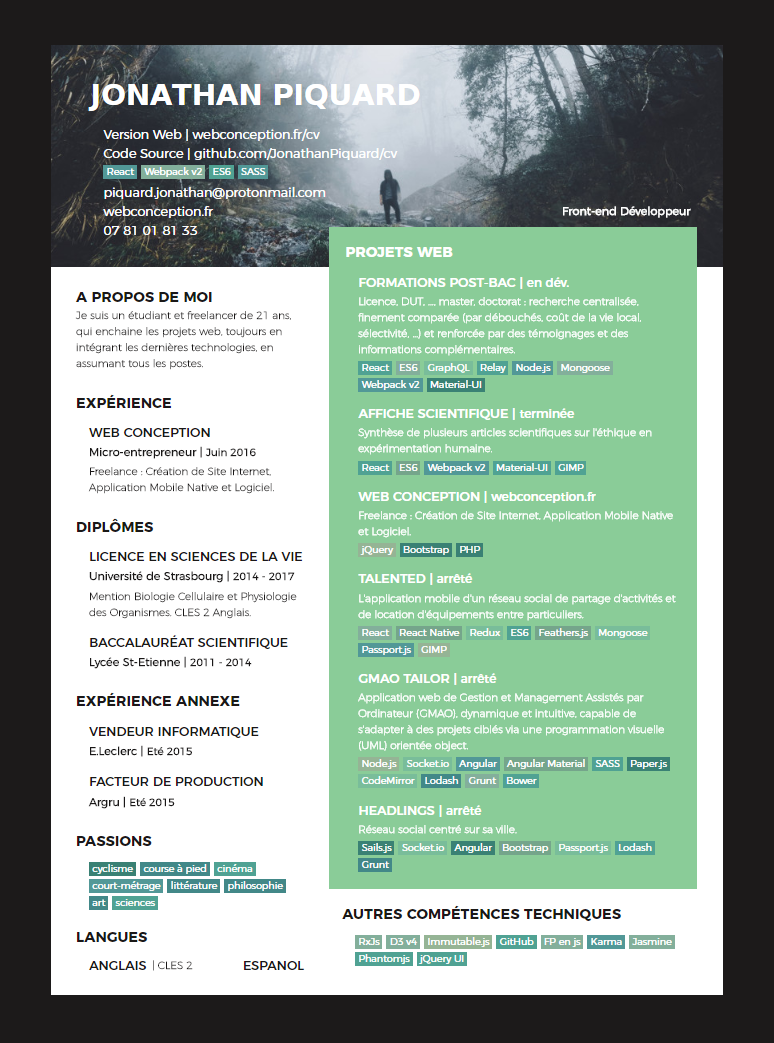
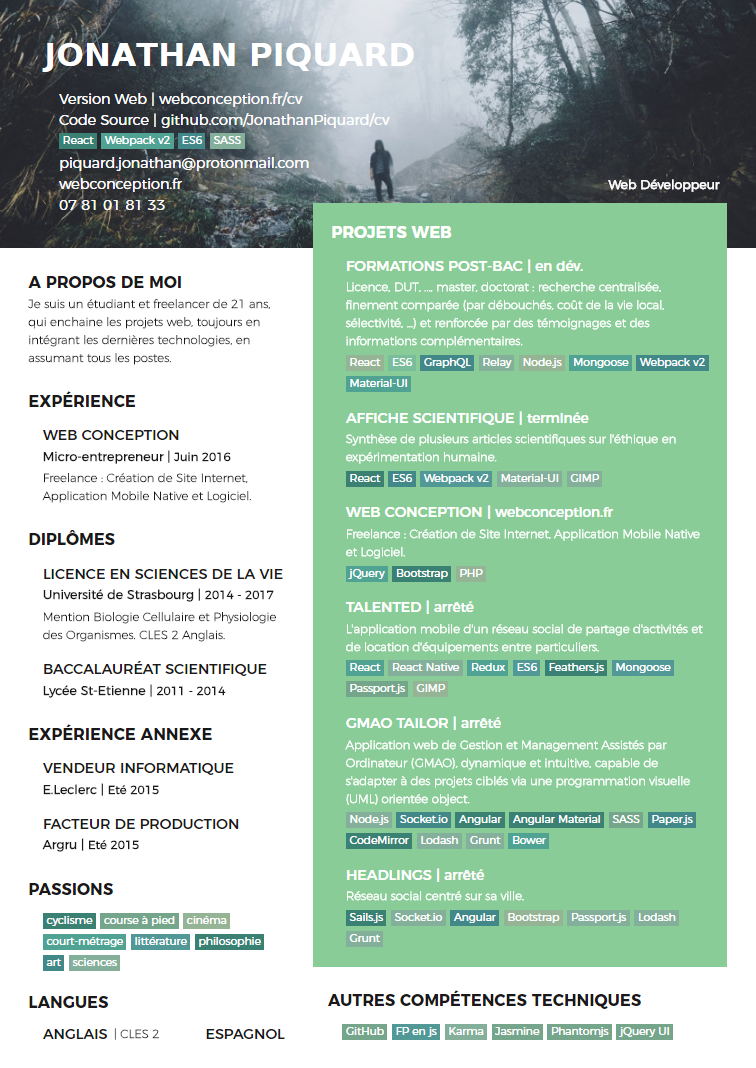
simplification

diff --git a/src/pages/CV/subparts/RightSection/index.js b/src/pages/CV/subparts/RightSection/index.js
@@ -56,7 +56,7 @@ class RightSection extends Component {
         <div id='otherSkills' className='category'>
           <h3 className='category-title'>Autres Compétences Techniques</h3>
           <div className='category-items'>
-            <BadgeList details={technologiesDetails} badges={['RxJs', 'D3 v4', 'Immutable.js', 'GitHub', 'FP en js', 'Karma', 'Jasmine', 'Phantomjs', 'jQuery UI']} />
+            <BadgeList details={technologiesDetails} badges={[/*'RxJs', 'D3 v4', 'Immutable.js',*/ 'GitHub', 'FP en js', 'Karma', 'Jasmine', 'Phantomjs', 'jQuery UI']} />
           </div>
         </div>
       </section>

diff --git a/src/pages/CV/subparts/LeftSection/index.js b/src/pages/CV/subparts/LeftSection/index.js
@@ -70,7 +70,7 @@ class LeftSection extends Component {
               <p className='category-item-description'>| CLES 2</p>
             </div>
             <div className='category-item'>
-              <h4 className='category-item-title'>Espanol</h4>
+              <h4 className='category-item-title'>Espagnol</h4>
             </div>
           </div>
         </div>

diff --git a/dist/index.html b/dist/index.html
@@ -5,7 +5,7 @@
   <meta charset="utf-8">
   <meta http-equiv="X-UA-Compatible" content="IE=edge">
   <title>CV | Jonathan Piquard</title>
-  <meta name="description" content="Front-end Développeur">
+  <meta name="description" content="Web Développeur">
 
   <meta
     name="viewport"

diff --git a/src/pages/CV/styles.scss b/src/pages/CV/styles.scss
@@ -104,6 +104,7 @@
 @media (min-width: 1017px) { /* 840px (page width) + 17px (scrollbar vertical width) + 2 * 80px (margins) */
     #container {
         margin: 80px auto;
+        height: 1188px;
     }
 }
 

diff --git a/src/pages/CV/subparts/Header/index.js b/src/pages/CV/subparts/Header/index.js
@@ -41,7 +41,7 @@ class Header extends Component {
 
           </div>
 
-          <h2>Front-end Développeur</h2>
+          <h2>Web Développeur</h2>
 
         </div>
       </header>

diff --git a/src/pages/CV/subparts/RightSection/styles.scss b/src/pages/CV/subparts/RightSection/styles.scss
@@ -35,6 +35,7 @@
         }
 
         > #otherSkills {
+            margin-top: 5px;
             padding: 21px 16px;
         }
     }

diff --git a/README.md b/README.md
@@ -1,7 +1,7 @@
 
 # cv
 
-It's beautiful curriculum vitae, responsive and dynamic, for a front-end developper !
+It's beautiful curriculum vitae, responsive and dynamic, for a web developper !
 The technologies at work are : Webpack 2, React, SCSS. All the code is written according to the ES6 standard.
 
 [Want to see it ?](https://webconception.fr/cv)
